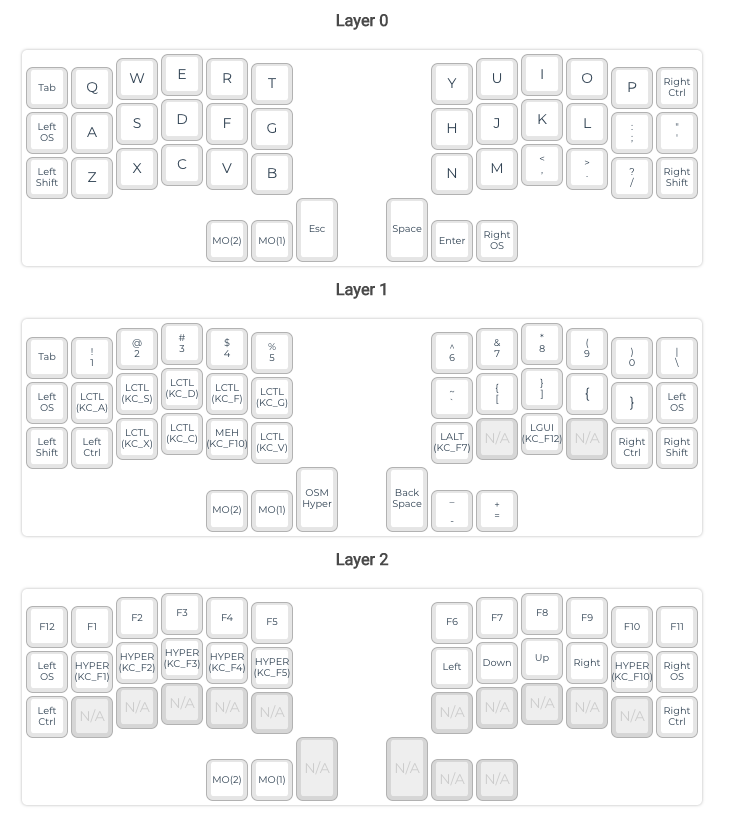
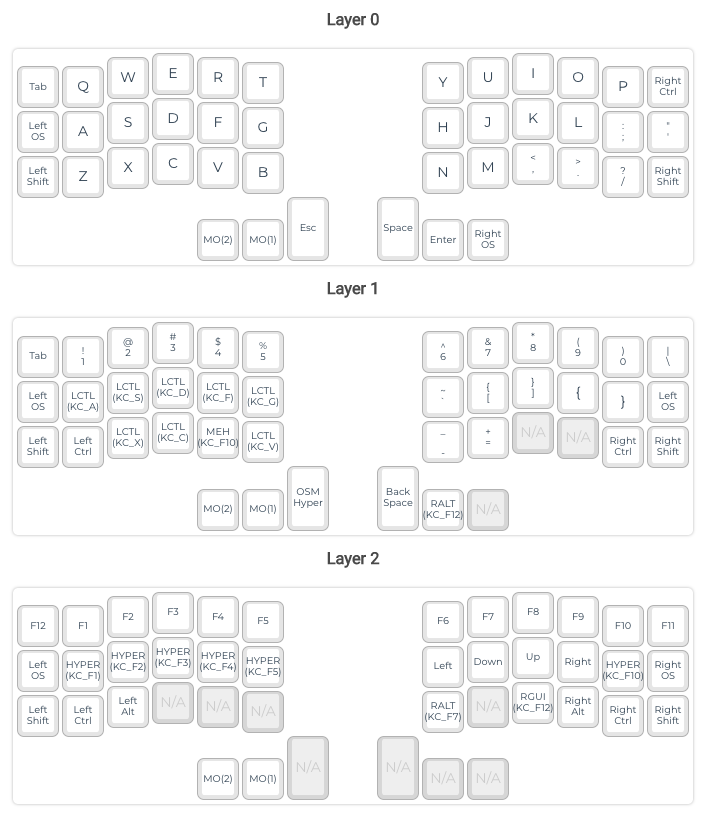
Move minus and plus, support for terminal hotkey

diff --git a/keyboards/crkbd/keymaps/rpak-2/keymap.c b/keyboards/crkbd/keymaps/rpak-2/keymap.c
@@ -32,8 +32,8 @@ enum macro_keycodes {
 
 const uint16_t PROGMEM keymaps[][MATRIX_ROWS][MATRIX_COLS] = {
 	[0] = LAYOUT(KC_TAB, KC_Q, KC_W, KC_E, KC_R, KC_T, KC_Y, KC_U, KC_I, KC_O, KC_P, KC_RCTL, KC_LGUI, KC_A, KC_S, KC_D, KC_F, KC_G, KC_H, KC_J, KC_K, KC_L, KC_SCLN, KC_QUOT, KC_LSFT, KC_Z, KC_X, KC_C, KC_V, KC_B, KC_N, KC_M, KC_COMM, KC_DOT, KC_SLSH, KC_RSFT, MO(2), MO(1), KC_ESC, KC_SPC, KC_ENT, KC_RGUI),
-	[1] = LAYOUT(KC_TAB, KC_1, KC_2, KC_3, KC_4, KC_5, KC_6, KC_7, KC_8, KC_9, KC_0, KC_BSLS, KC_LGUI, LCTL(KC_A), LCTL(KC_S), LCTL(KC_D), LCTL(KC_F), LCTL(KC_G), KC_GRV, KC_LBRC, KC_RBRC, KC_LCBR, KC_RCBR, KC_LGUI, KC_LSFT, KC_LCTL, LCTL(KC_X), LCTL(KC_C), MEH(KC_F10), LCTL(KC_V), LALT(KC_F7), KC_NO, LGUI(KC_F12), KC_NO, KC_RCTL, KC_RSFT, MO(2), MO(1), OSM(MOD_HYPR), KC_BSPC, KC_MINS, KC_EQL),
-	[2] = LAYOUT(KC_F12, KC_F1, KC_F2, KC_F3, KC_F4, KC_F5, KC_F6, KC_F7, KC_F8, KC_F9, KC_F10, KC_F11, KC_LGUI, HYPR(KC_F1), HYPR(KC_F2), HYPR(KC_F3), HYPR(KC_F4), HYPR(KC_F5), KC_LEFT, KC_DOWN, KC_UP, KC_RGHT, HYPR(KC_F10), KC_RGUI, KC_LCTL, KC_NO, KC_NO, KC_NO, KC_NO, KC_NO, KC_NO, KC_NO, KC_NO, KC_NO, KC_NO, KC_RCTL, MO(2), MO(1), KC_NO, KC_NO, KC_NO, KC_NO)
+	[1] = LAYOUT(KC_TAB, KC_1, KC_2, KC_3, KC_4, KC_5, KC_6, KC_7, KC_8, KC_9, KC_0, KC_BSLS, KC_LGUI, LCTL(KC_A), LCTL(KC_S), LCTL(KC_D), LCTL(KC_F), LCTL(KC_G), KC_GRV, KC_LBRC, KC_RBRC, KC_LCBR, KC_RCBR, KC_LGUI, KC_LSFT, KC_LCTL, LCTL(KC_X), LCTL(KC_C), MEH(KC_F10), LCTL(KC_V), KC_MINS, KC_EQL, KC_NO, KC_NO, KC_RCTL, KC_RSFT, MO(2), MO(1), OSM(MOD_HYPR), KC_BSPC, RALT(KC_F12), KC_NO),
+	[2] = LAYOUT(KC_F12, KC_F1, KC_F2, KC_F3, KC_F4, KC_F5, KC_F6, KC_F7, KC_F8, KC_F9, KC_F10, KC_F11, KC_LGUI, HYPR(KC_F1), HYPR(KC_F2), HYPR(KC_F3), HYPR(KC_F4), HYPR(KC_F5), KC_LEFT, KC_DOWN, KC_UP, KC_RGHT, HYPR(KC_F10), KC_RGUI, KC_LSFT, KC_LCTL, KC_LALT, KC_NO, KC_NO, KC_NO, RALT(KC_F7), KC_NO, RGUI(KC_F12), KC_RALT, KC_RCTL, KC_RSFT, MO(2), MO(1), KC_NO, KC_NO, KC_NO, KC_NO)
 };
 
 int RGB_current_mode;
